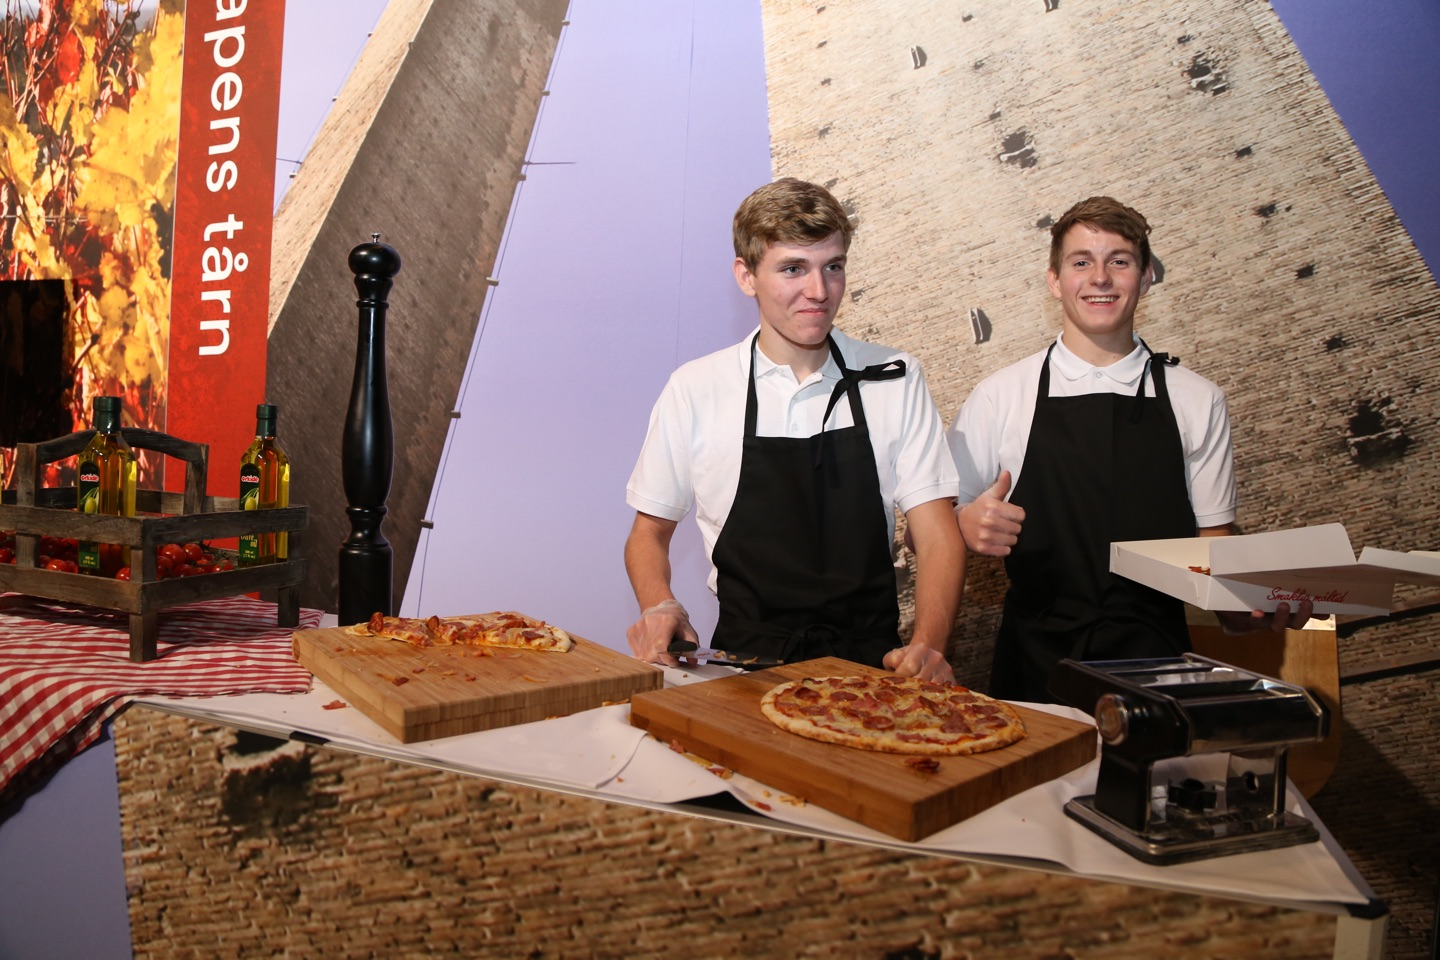
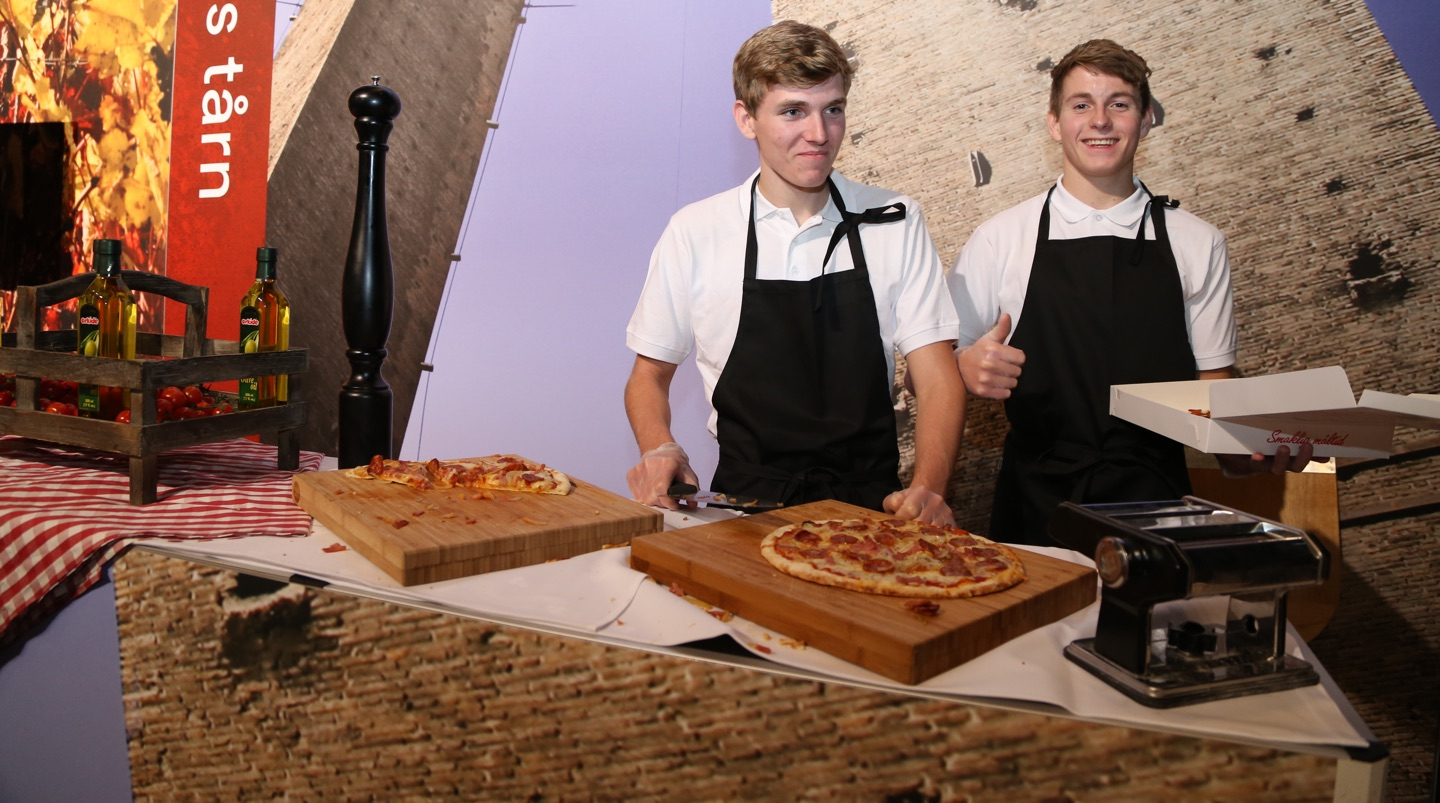
Kutter bildene litt bedre

diff --git a/frontend/content/partners.html b/frontend/content/partners.html
@@ -41,7 +41,7 @@
 	</div>
 </div>
 
-<div class="img img-center img-sjakk2"></div>
+<div class="img img-sjakk2"></div>
 
 <div class="section container cf">
 	<div class="sub-section cf">
@@ -71,7 +71,7 @@
 	</div>
 </div>
 
-<div class="img img-center img-pizza"></div>
+<div class="img img-pizza"></div>
 
 <div class="packages">
 	<div class="section container">		
